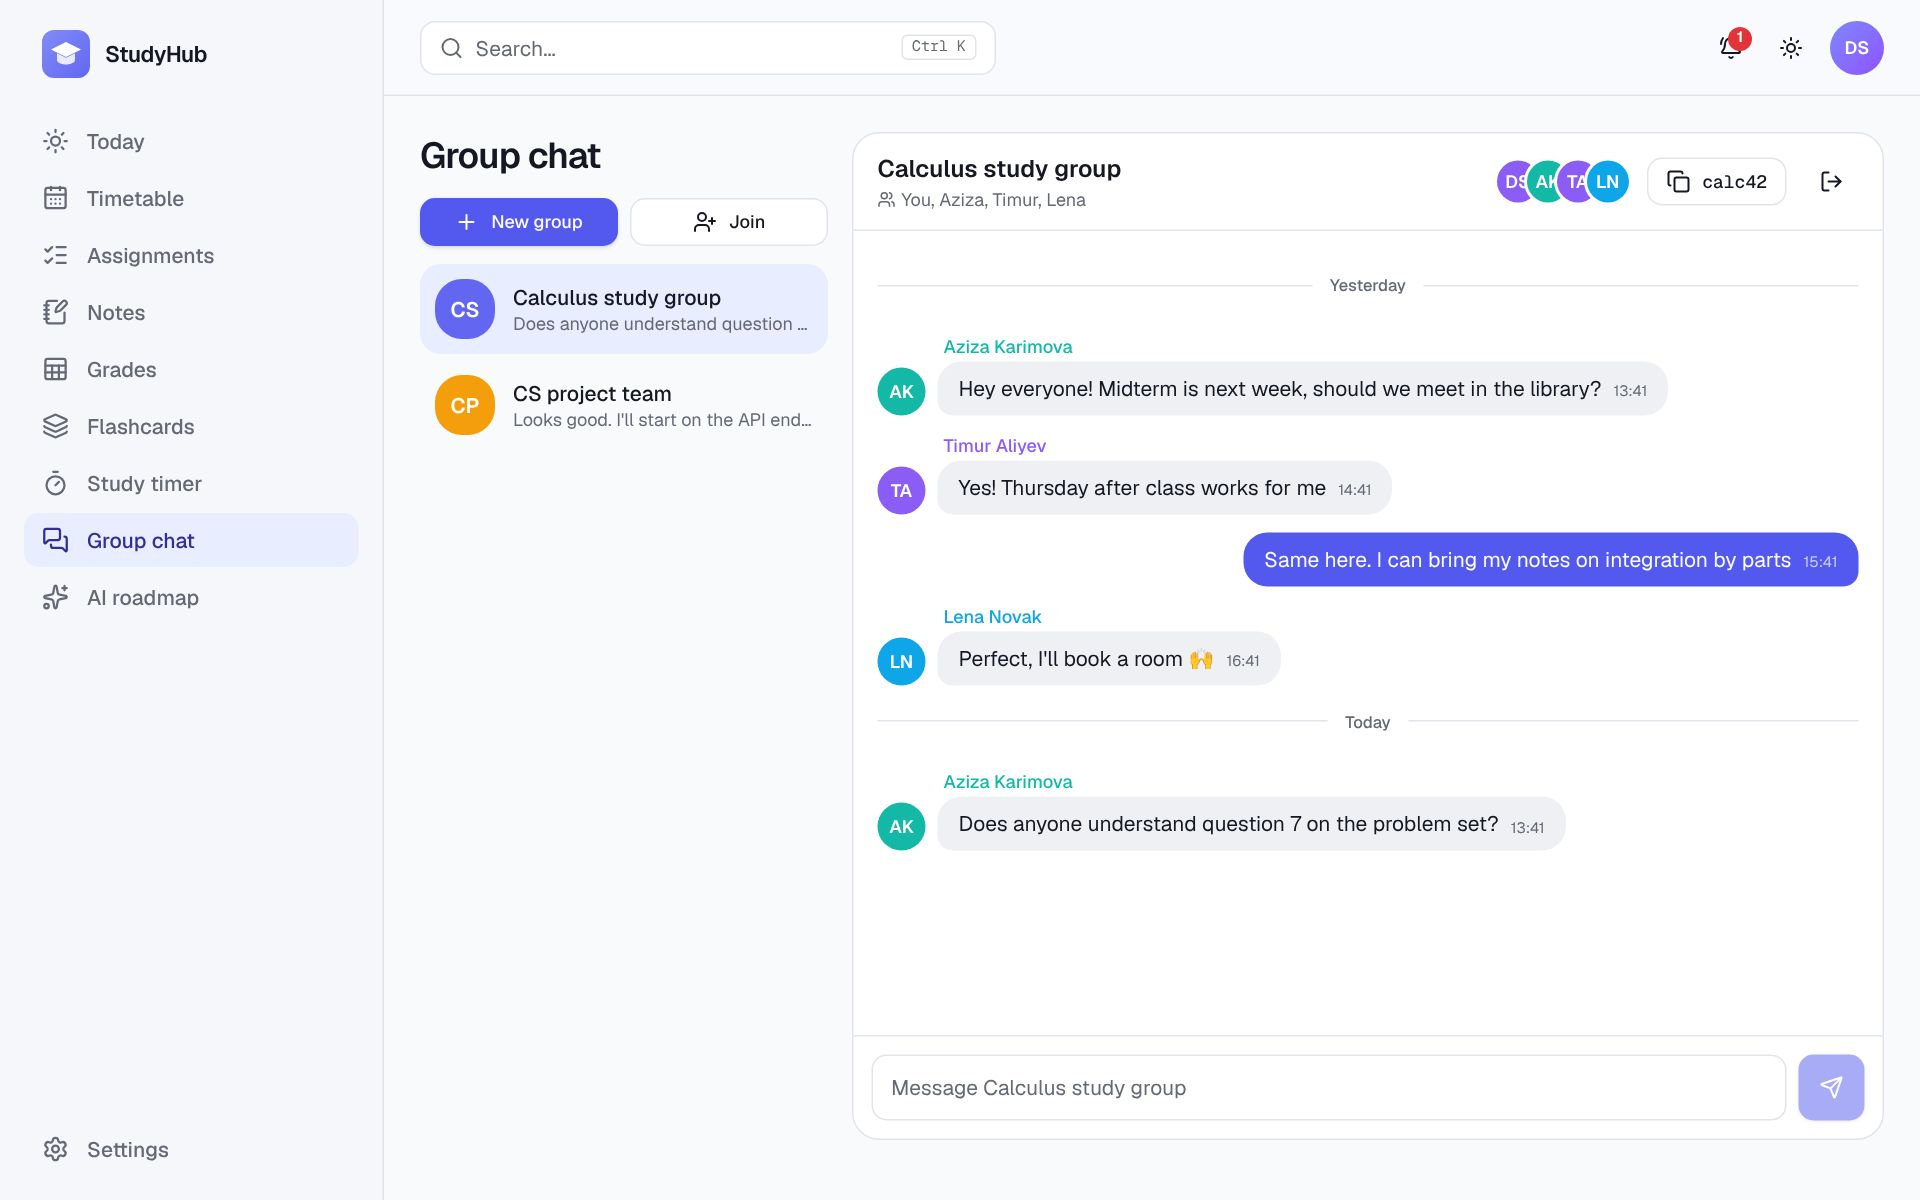
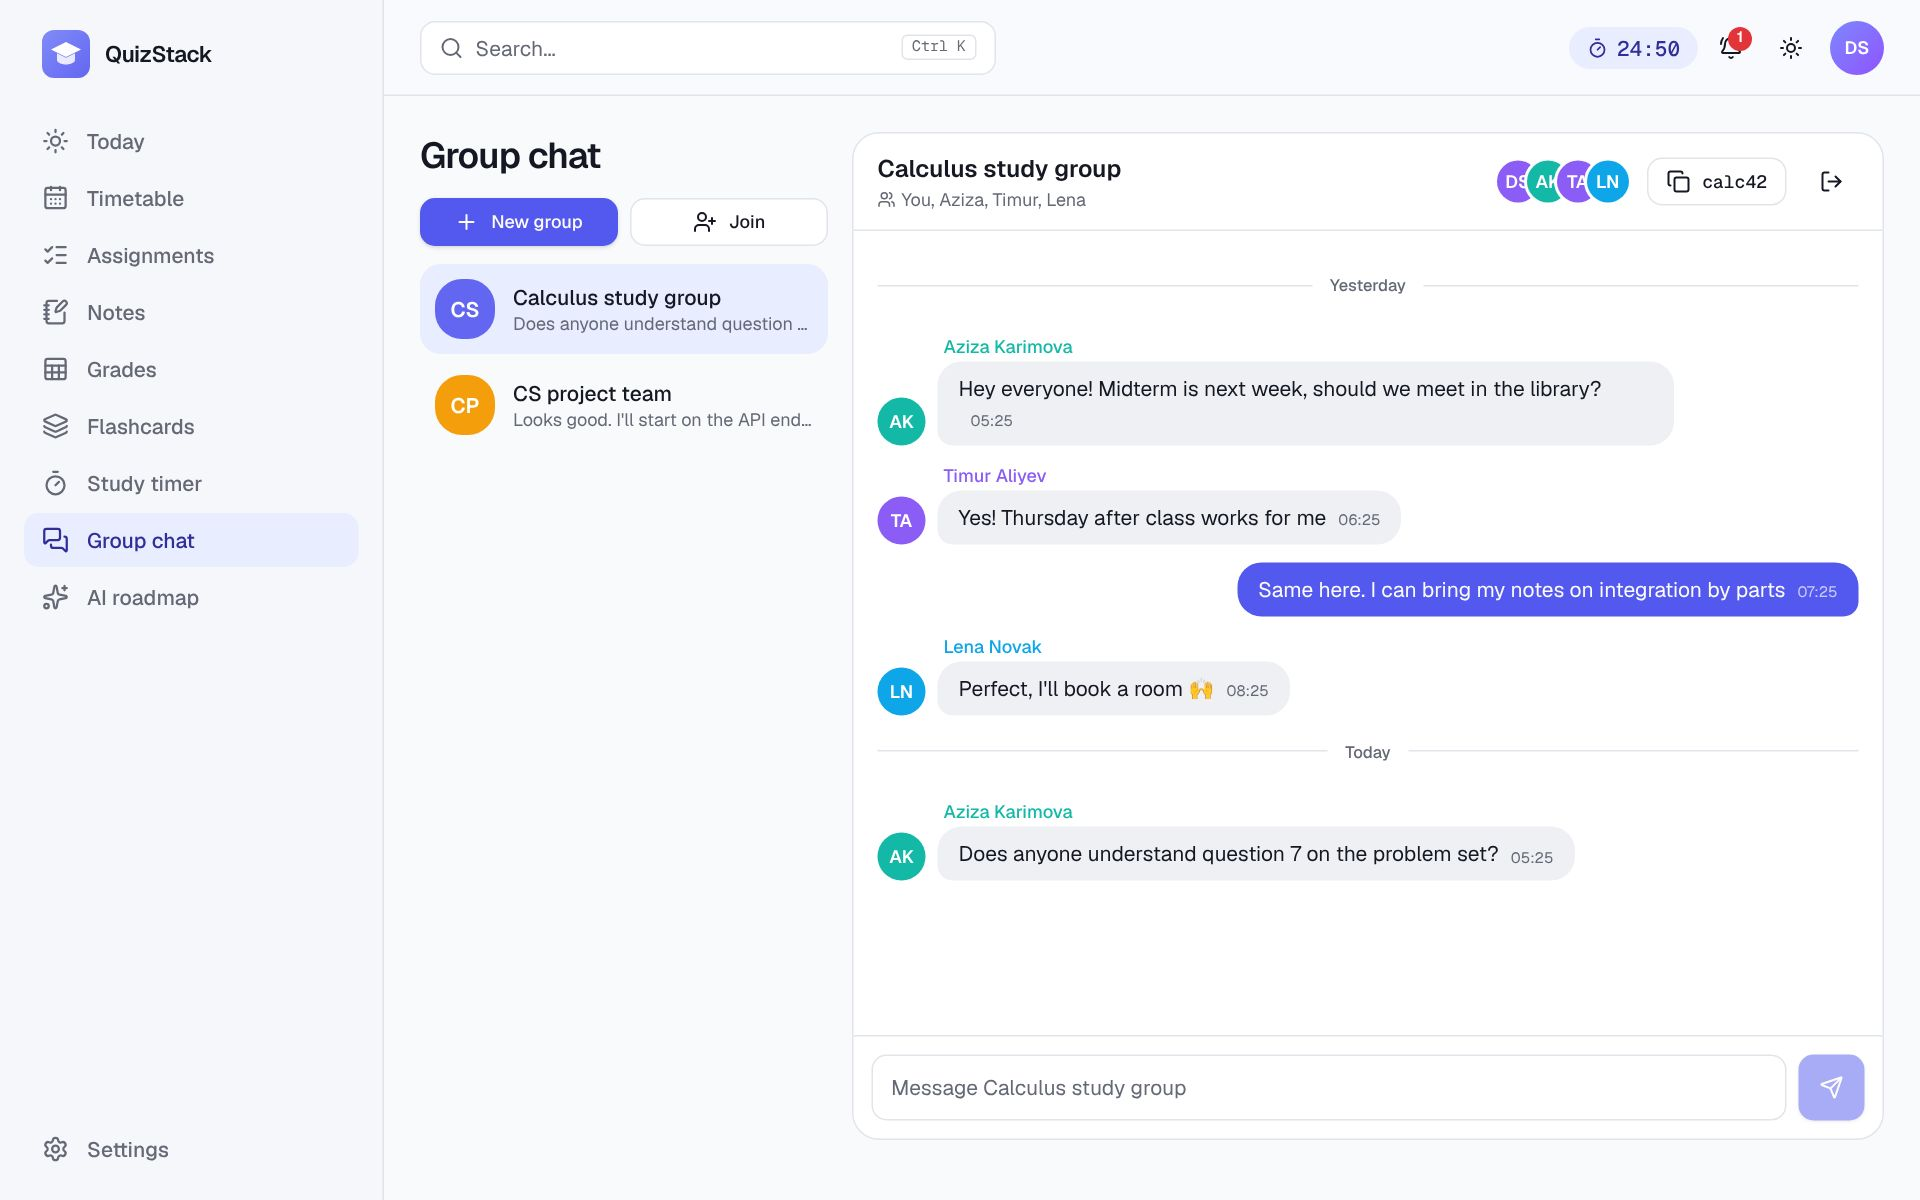
Rename the app to QuizStack
- siteConfig name (logo, page titles, landing page, login, manifest),
  README title, package name and the demo account email.
- Retake the landing page screenshots so they show the new name.
- Browser storage keys keep their old "studyhub-" prefix so visitors
  don't lose their demo data.

Claude-Session: https://claude.ai/code/session_018Gxit6mDkaZBv3CH5mnnUU

diff --git a/src/lib/data/demo-repo.ts b/src/lib/data/demo-repo.ts
@@ -299,7 +299,7 @@ export function createDemoRepo(): Repo {
   return {
     async getProfile(): Promise<Profile> {
       const { fullName, reminderHours } = get().profile;
-      return { id: "demo-user", fullName, avatarUrl: null, email: "demo@studyhub.app", reminderHours };
+      return { id: "demo-user", fullName, avatarUrl: null, email: "demo@quizstack.app", reminderHours };
     },
     async updateProfile(patch) {
       const s = get();

diff --git a/src/lib/config.ts b/src/lib/config.ts
@@ -1,5 +1,5 @@
 export const siteConfig = {
-  name: "StudyHub",
+  name: "QuizStack",
   tagline: "Everything a student needs, in one place.",
 };
 

diff --git a/README.md b/README.md
@@ -1,4 +1,4 @@
-# StudyHub
+# QuizStack
 
 One dashboard for everything a student uses: timetable, assignments and exams,
 notes, grades, flashcards, a focus timer, group chat and AI study roadmaps.
